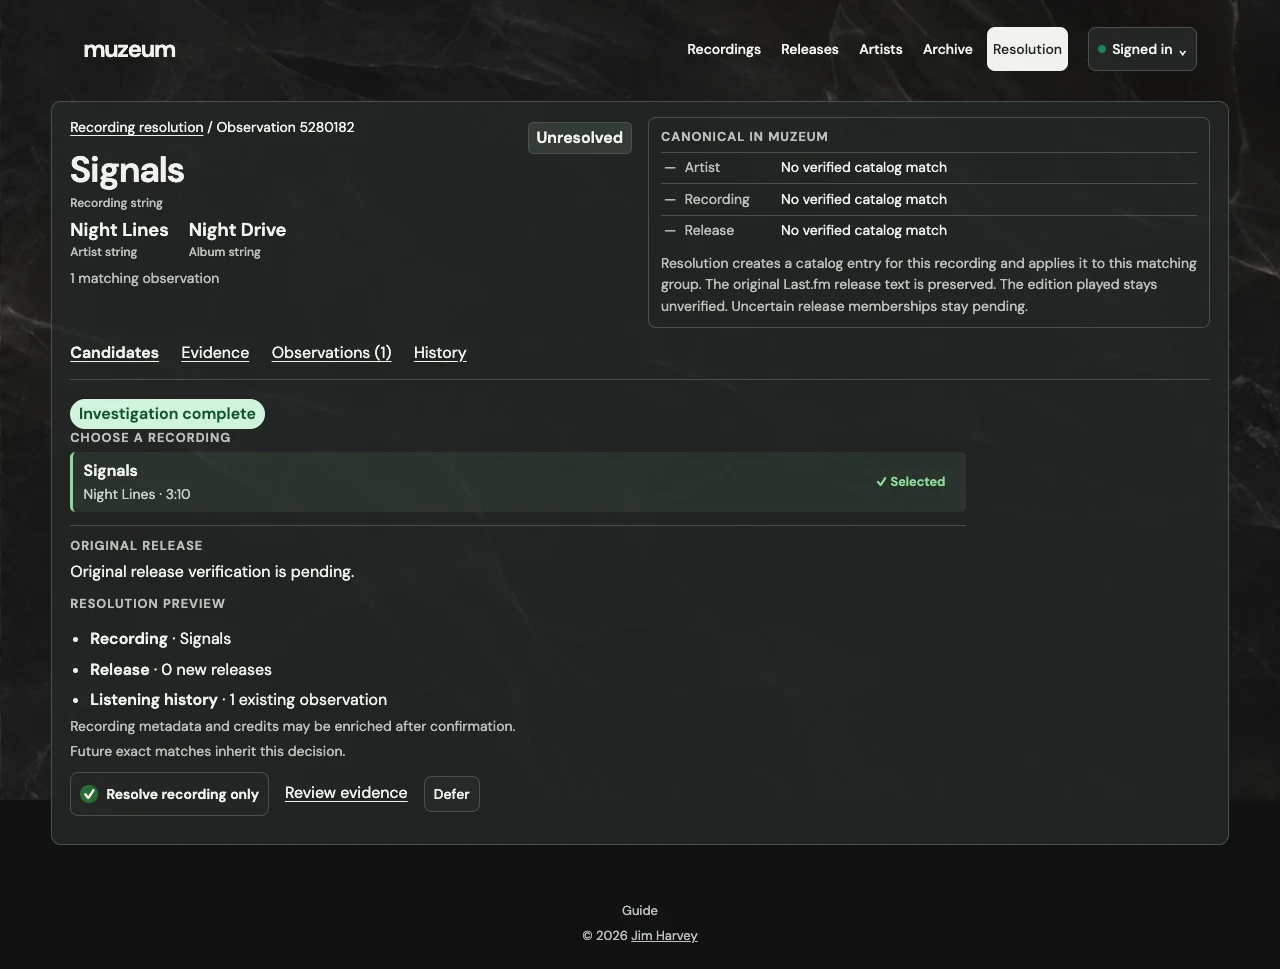
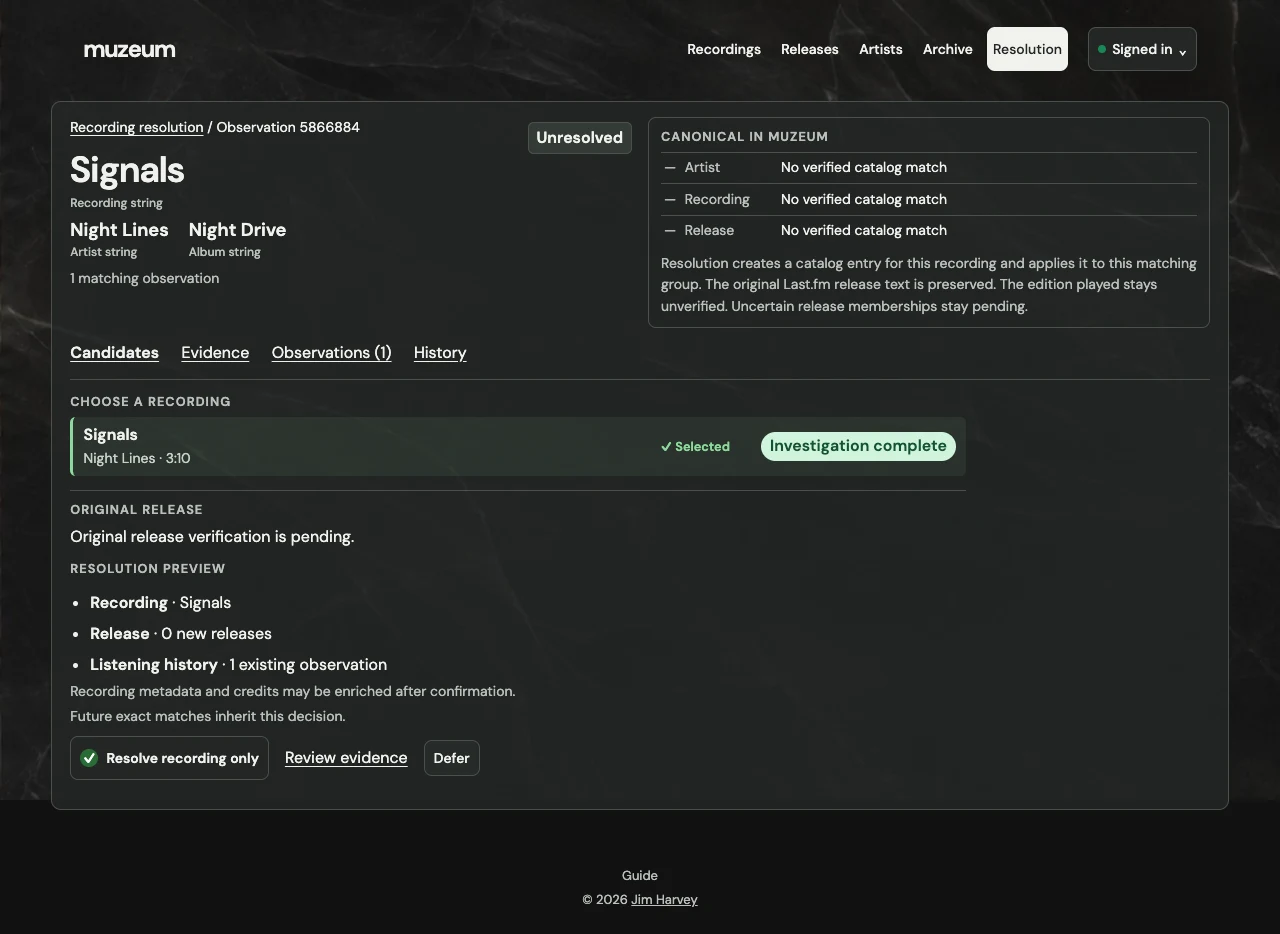
Align terminal investigation badge with the selected recording

diff --git a/app/assets/stylesheets/application.css b/app/assets/stylesheets/application.css
@@ -868,6 +868,9 @@ main .resolution-option .resolution-recording-mbid {
   font: .8rem ui-monospace, monospace;
   text-decoration: underline;
 }
+.resolution-option:has(.resolution-option-status) { grid-template-columns: minmax(0, 1fr) auto auto; }
+.resolution-option-status { justify-self: end; padding-inline: .65rem; }
+.resolution-review .resolution-option-status .investigation-badge { margin: 0; }
 .resolution-choice .muted { color: var(--choice-muted); }
 .resolution-choice > span:first-child > span { display: block; font-size: .875rem; }
 .resolution-association { grid-column: 2; font-size: .875rem; }
@@ -901,6 +904,7 @@ main .resolution-option a:focus-visible { outline: 2px solid var(--ink); outline
   main .resolution-option .resolution-choice { grid-template-columns: minmax(0, 1fr) 5rem; gap: .2rem .5rem; }
   .resolution-association { grid-area: 2 / 1 / auto / -1; }
   .resolution-selected { grid-column: 2; grid-row: 1; }
+  .resolution-option-status { grid-column: 1 / -1; padding-block-end: .4rem; }
 }
 
 html { scroll-padding-block-start: calc(var(--shell-header-height, 84px) + env(safe-area-inset-top, 0px)); }

diff --git a/spec/system/canonical_library_spec.rb b/spec/system/canonical_library_spec.rb
@@ -830,6 +830,25 @@ RSpec.describe "Canonical library resolution workflow", type: :system do
     expect(page).to have_no_css(".investigation-progress")
     expect(page).to have_no_link("Refresh status")
     browser.execute_cdp("Emulation.setDeviceMetricsOverride", width: 1280, height: 800, deviceScaleFactor: 1, mobile: false)
+    expect(page).to have_css(".resolution-option:has([aria-current]) .resolution-option-status .investigation-badge")
+    [ [ 1280, 800 ], [ 390, 844 ] ].each do |width, height|
+      browser.execute_cdp("Emulation.setDeviceMetricsOverride", width:, height:, deviceScaleFactor: 1, mobile: width < 700)
+      position = page.evaluate_script(<<~JS)
+        (() => {
+          const row = document.querySelector(".resolution-option:has([aria-current])")
+          const label = row.querySelector(".resolution-selected").getBoundingClientRect()
+          const badge = row.querySelector(".investigation-badge").getBoundingClientRect()
+          const heading = document.querySelector("#review-candidates h2").getBoundingClientRect()
+          return [Math.abs(label.top + label.height / 2 - badge.top - badge.height / 2),
+            badge.left >= label.right || badge.top >= label.bottom,
+            heading.bottom <= row.getBoundingClientRect().top,
+            badge.right <= row.getBoundingClientRect().right]
+        })()
+      JS
+      expect(position.drop(1)).to eq([ true, true, true ])
+      expect(position.first).to be < 1 if width >= 700
+    end
+    browser.execute_cdp("Emulation.setDeviceMetricsOverride", width: 1280, height: 800, deviceScaleFactor: 1, mobile: false)
     capture_resolution("investigation-complete", full: true)
   ensure
     CanonicalCatalogJob.queue_adapter = prior_adapter if prior_adapter
